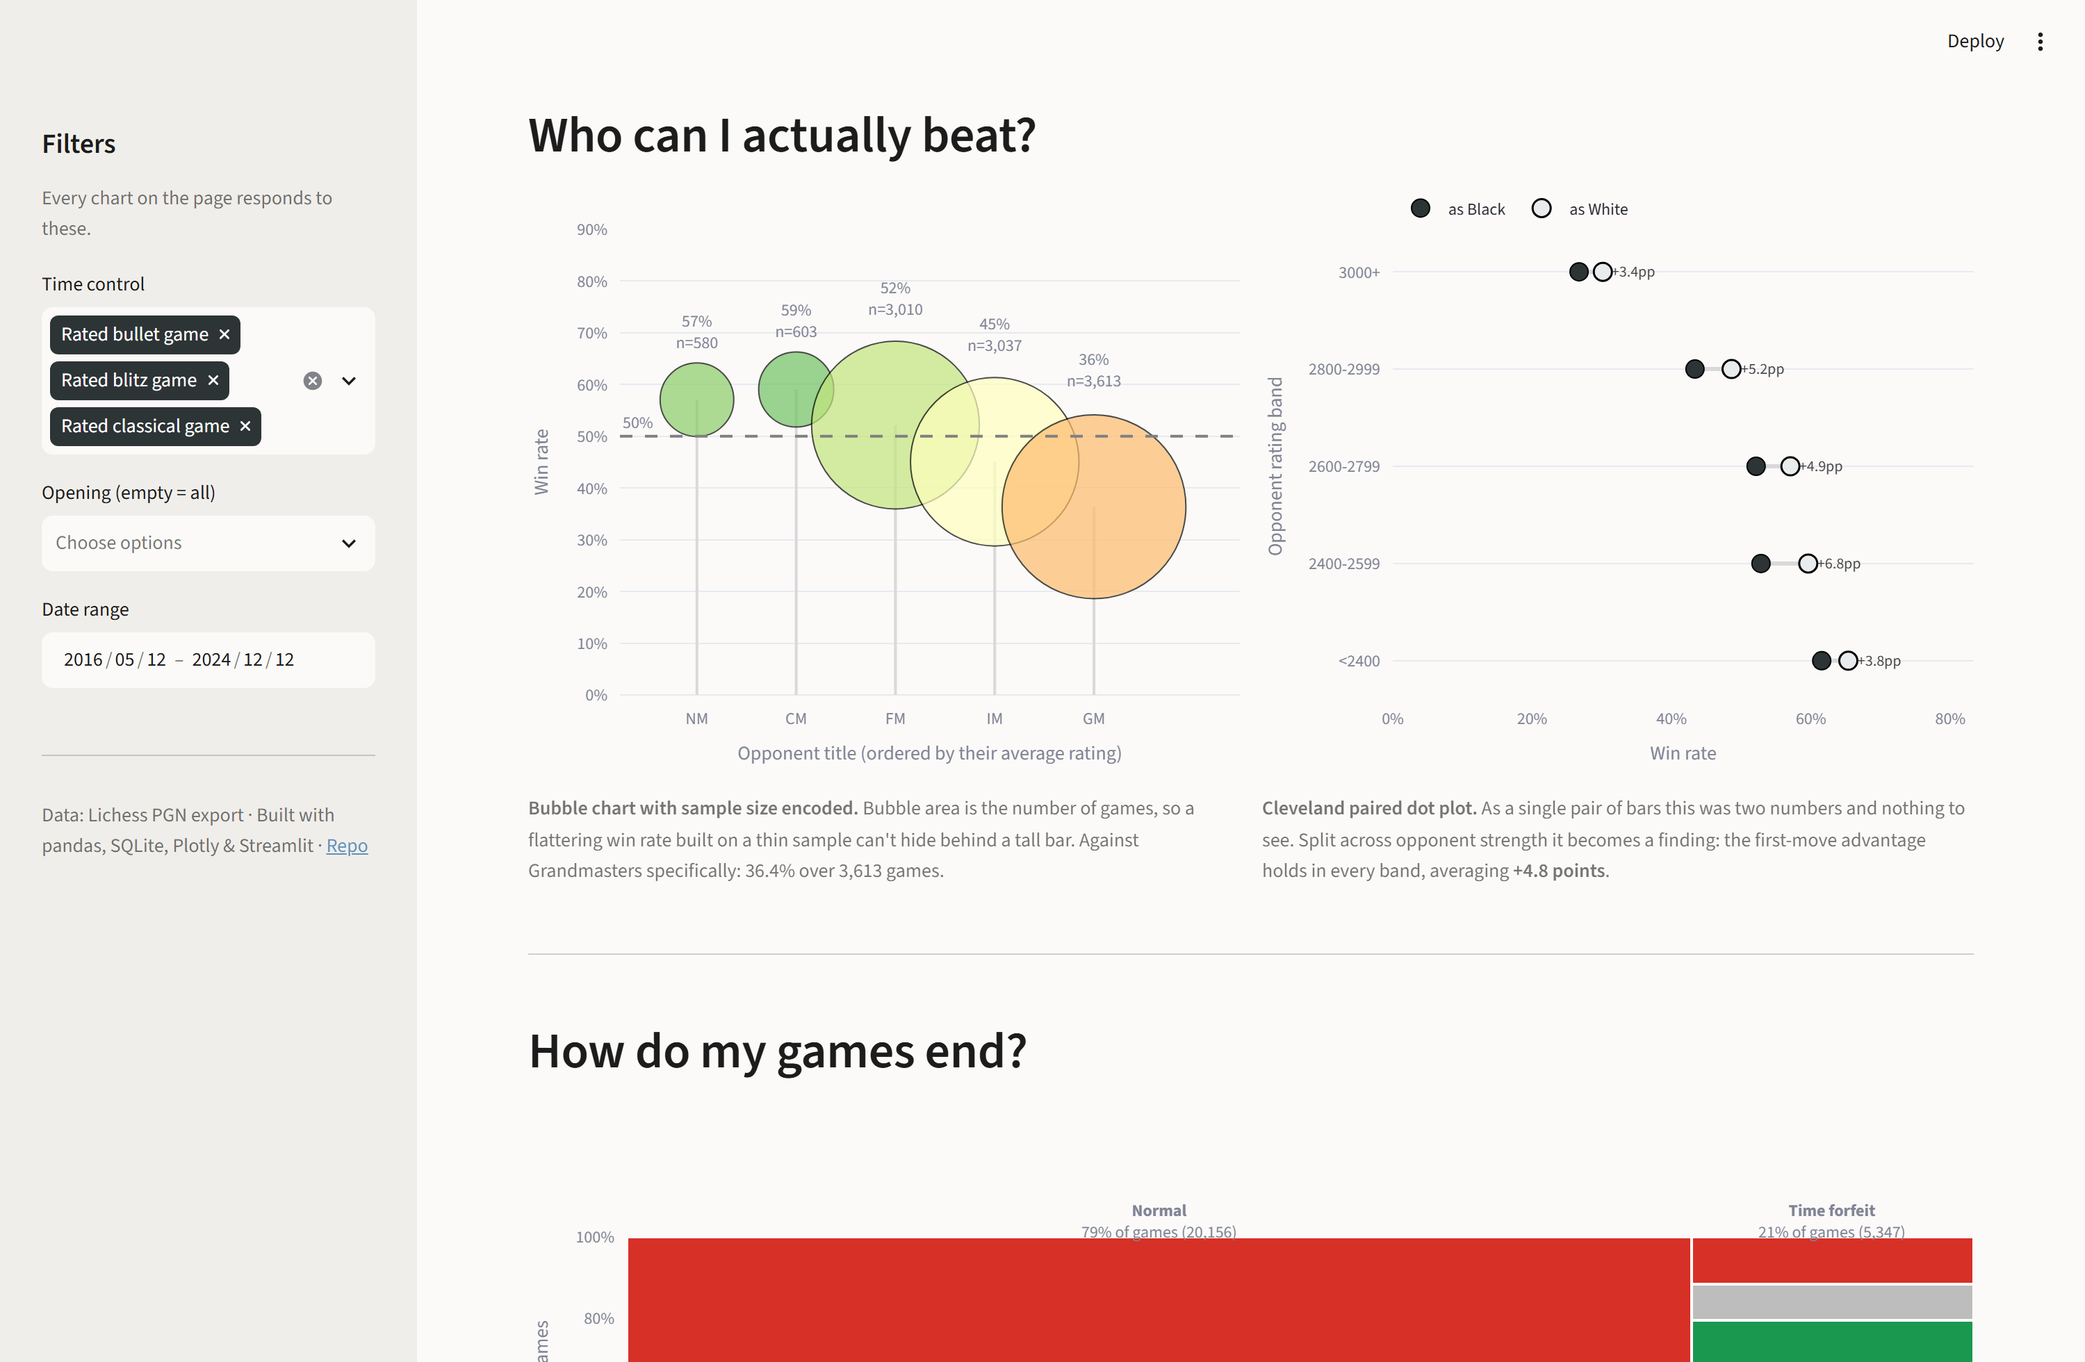
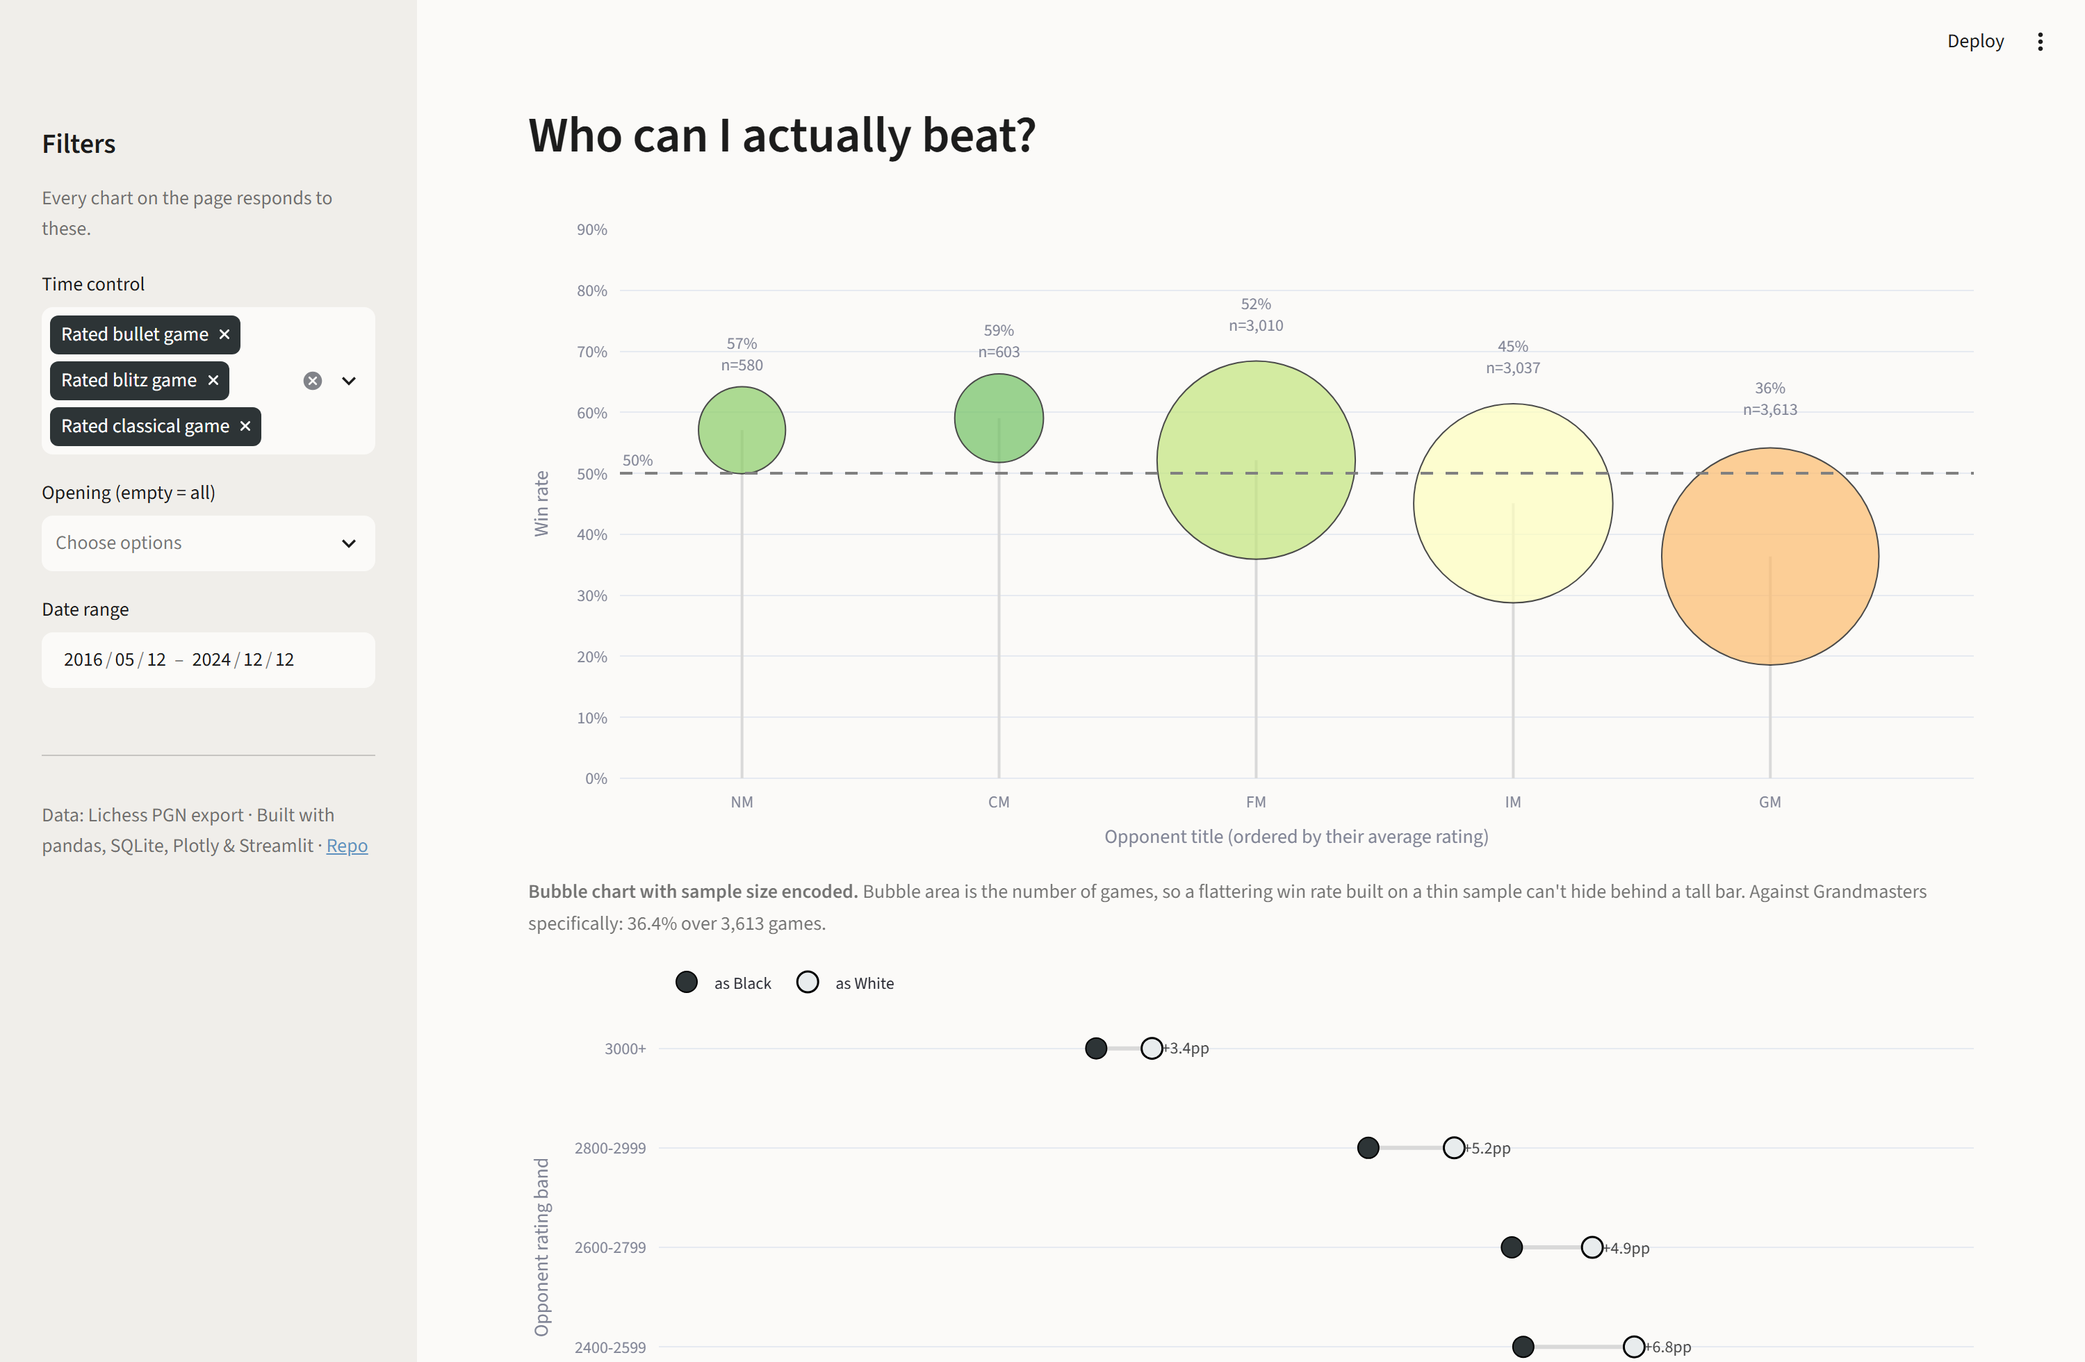
Stack charts full width and make the mosaic readable without hovering
Side-by-side chart pairs were cramped at this data density, so every chart
now gets the full page width and more height.

The mosaic plot's composition was only legible on hover: percentages now sit
inside each block, a gutter separates the two columns, and the column labels
have enough clearance not to collide with the bars.

diff --git a/dashboard/app.py b/dashboard/app.py
@@ -222,104 +222,99 @@ st.divider()
 # ------------------------------------------------------------- who I beat ---
 st.header("Who can I actually beat?")
 
-left, right = st.columns(2)
-
-with left:
-    title_df = q.winrate_by_opponent_title(conn, modes, selected_openings, date_from, date_to)
-    if title_df.empty:
-        st.info("No titled opponents in the current filter.")
-    else:
-        fig = go.Figure()
-        for _, row in title_df.iterrows():
-            fig.add_trace(
-                go.Scatter(x=[row["opp_title"]] * 2, y=[0, row["win_rate"]], mode="lines",
-                           line=dict(color="#d9d9d9", width=2), showlegend=False, hoverinfo="skip")
-            )
+title_df = q.winrate_by_opponent_title(conn, modes, selected_openings, date_from, date_to)
+if title_df.empty:
+    st.info("No titled opponents in the current filter.")
+else:
+    fig = go.Figure()
+    for _, row in title_df.iterrows():
         fig.add_trace(
-            go.Scatter(
-                x=title_df["opp_title"], y=title_df["win_rate"], mode="markers+text",
-                marker=dict(
-                    size=np.sqrt(title_df["games_played"]) * 2.2,
-                    color=title_df["win_rate"], colorscale="RdYlGn", cmin=0.2, cmax=0.7,
-                    line=dict(color="black", width=1), showscale=False,
-                ),
-                text=[f"{r:.0%}<br>n={n:,}" for r, n in
-                      zip(title_df["win_rate"], title_df["games_played"])],
-                textposition="top center", showlegend=False,
-                hovertemplate="%{x}<br>Win rate %{y:.1%}<extra></extra>",
-            )
+            go.Scatter(x=[row["opp_title"]] * 2, y=[0, row["win_rate"]], mode="lines",
+                       line=dict(color="#d9d9d9", width=2), showlegend=False, hoverinfo="skip")
         )
-        fig.add_hline(y=0.5, line_dash="dash", line_color="gray",
-                      annotation_text="50%", annotation_position="top left")
-        fig.update_yaxes(tickformat=".0%", range=[0, 0.9], title="Win rate")
-        fig.update_xaxes(title="Opponent title (ordered by their average rating)")
-        fig.update_layout(height=420, margin=dict(t=30, b=10))
+    fig.add_trace(
+        go.Scatter(
+            x=title_df["opp_title"], y=title_df["win_rate"], mode="markers+text",
+            marker=dict(
+                size=np.sqrt(title_df["games_played"]) * 2.6,
+                color=title_df["win_rate"], colorscale="RdYlGn", cmin=0.2, cmax=0.7,
+                line=dict(color="black", width=1), showscale=False,
+            ),
+            text=[f"{r:.0%}<br>n={n:,}" for r, n in
+                  zip(title_df["win_rate"], title_df["games_played"])],
+            textposition="top center", showlegend=False,
+            hovertemplate="%{x}<br>Win rate %{y:.1%}<extra></extra>",
+        )
+    )
+    fig.add_hline(y=0.5, line_dash="dash", line_color="gray",
+                  annotation_text="50%", annotation_position="top left")
+    fig.update_yaxes(tickformat=".0%", range=[0, 0.9], title="Win rate")
+    fig.update_xaxes(title="Opponent title (ordered by their average rating)")
+    fig.update_layout(height=480, margin=dict(t=30, b=10))
+    st.plotly_chart(fig, use_container_width=True)
+
+    gm = title_df[title_df["opp_title"] == "GM"]
+    gm_bit = (
+        f" Against Grandmasters specifically: {pct(gm.iloc[0]['win_rate'])} "
+        f"over {int(gm.iloc[0]['games_played']):,} games."
+        if not gm.empty else ""
+    )
+    st.caption(
+        "**Bubble chart with sample size encoded.** Bubble area is the number of games, so a "
+        "flattering win rate built on a thin sample can't hide behind a tall bar." + gm_bit
+    )
+
+ce_df = q.winrate_by_color_and_elo(conn, modes, selected_openings, date_from, date_to)
+if ce_df.empty:
+    st.info("Not enough data for the colour comparison in the current filter.")
+else:
+    wide = ce_df.pivot_table(
+        index=["elo_band", "sort_key"], columns="PlayerColor", values="win_rate"
+    ).reset_index().sort_values("sort_key")
+
+    if {"White", "Black"}.issubset(wide.columns):
+        band_order = wide["elo_band"].tolist()
+        line_x, line_y = [], []
+        for _, r in wide.iterrows():
+            line_x += [r["Black"], r["White"], None]
+            line_y += [r["elo_band"], r["elo_band"], None]
+
+        fig = go.Figure()
+        fig.add_trace(go.Scatter(x=line_x, y=line_y, mode="lines",
+                                 line=dict(color="#d9d9d9", width=3), hoverinfo="skip",
+                                 showlegend=False))
+        fig.add_trace(go.Scatter(
+            x=wide["Black"], y=wide["elo_band"], mode="markers", name="as Black",
+            marker=dict(color=BLACK_PIECE, size=15, line=dict(color="black", width=1)),
+            hovertemplate="as Black · %{y}<br>Win rate %{x:.1%}<extra></extra>",
+        ))
+        fig.add_trace(go.Scatter(
+            x=wide["White"], y=wide["elo_band"], mode="markers", name="as White",
+            marker=dict(color=WHITE_PIECE, size=15, line=dict(color="black", width=1.5)),
+            hovertemplate="as White · %{y}<br>Win rate %{x:.1%}<extra></extra>",
+        ))
+        for _, r in wide.iterrows():
+            gap = (r["White"] - r["Black"]) * 100
+            fig.add_annotation(
+                x=max(r["White"], r["Black"]), y=r["elo_band"], text=f"  +{gap:.1f}pp",
+                showarrow=False, xanchor="left", font=dict(size=12, color="#444"),
+            )
+        fig.update_yaxes(categoryorder="array", categoryarray=band_order,
+                         title="Opponent rating band")
+        fig.update_xaxes(tickformat=".0%", title="Win rate",
+                         range=[0, max(wide[["White", "Black"]].max()) + 0.15])
+        fig.update_layout(height=430, margin=dict(t=30, b=10),
+                          legend=dict(orientation="h", yanchor="bottom", y=1.02))
         st.plotly_chart(fig, use_container_width=True)
 
-        gm = title_df[title_df["opp_title"] == "GM"]
-        gm_bit = (
-            f" Against Grandmasters specifically: {pct(gm.iloc[0]['win_rate'])} "
-            f"over {int(gm.iloc[0]['games_played']):,} games."
-            if not gm.empty else ""
-        )
+        avg_gap = (wide["White"] - wide["Black"]).mean() * 100
         st.caption(
-            "**Bubble chart with sample size encoded.** Bubble area is the number of games, so a "
-            "flattering win rate built on a thin sample can't hide behind a tall bar." + gm_bit
+            f"**Cleveland paired dot plot.** As a single pair of bars this was two numbers and "
+            f"nothing to see. Split across opponent strength it becomes a finding: the "
+            f"first-move advantage holds in every band, averaging **+{avg_gap:.1f} points**."
         )
-
-with right:
-    ce_df = q.winrate_by_color_and_elo(conn, modes, selected_openings, date_from, date_to)
-    if ce_df.empty:
-        st.info("Not enough data for the colour comparison in the current filter.")
     else:
-        wide = ce_df.pivot_table(
-            index=["elo_band", "sort_key"], columns="PlayerColor", values="win_rate"
-        ).reset_index().sort_values("sort_key")
-        counts = ce_df.groupby("elo_band")["games_played"].sum()
-
-        if {"White", "Black"}.issubset(wide.columns):
-            band_order = wide["elo_band"].tolist()
-            line_x, line_y = [], []
-            for _, r in wide.iterrows():
-                line_x += [r["Black"], r["White"], None]
-                line_y += [r["elo_band"], r["elo_band"], None]
-
-            fig = go.Figure()
-            fig.add_trace(go.Scatter(x=line_x, y=line_y, mode="lines",
-                                     line=dict(color="#d9d9d9", width=3), hoverinfo="skip",
-                                     showlegend=False))
-            fig.add_trace(go.Scatter(
-                x=wide["Black"], y=wide["elo_band"], mode="markers", name="as Black",
-                marker=dict(color=BLACK_PIECE, size=13, line=dict(color="black", width=1)),
-                hovertemplate="as Black · %{y}<br>Win rate %{x:.1%}<extra></extra>",
-            ))
-            fig.add_trace(go.Scatter(
-                x=wide["White"], y=wide["elo_band"], mode="markers", name="as White",
-                marker=dict(color=WHITE_PIECE, size=13, line=dict(color="black", width=1.5)),
-                hovertemplate="as White · %{y}<br>Win rate %{x:.1%}<extra></extra>",
-            ))
-            for _, r in wide.iterrows():
-                gap = (r["White"] - r["Black"]) * 100
-                fig.add_annotation(
-                    x=max(r["White"], r["Black"]), y=r["elo_band"], text=f"  +{gap:.1f}pp",
-                    showarrow=False, xanchor="left", font=dict(size=11, color="#444"),
-                )
-            fig.update_yaxes(categoryorder="array", categoryarray=band_order,
-                             title="Opponent rating band")
-            fig.update_xaxes(tickformat=".0%", title="Win rate",
-                             range=[0, max(wide[["White", "Black"]].max()) + 0.18])
-            fig.update_layout(height=420, margin=dict(t=30, b=10),
-                              legend=dict(orientation="h", yanchor="bottom", y=1.02))
-            st.plotly_chart(fig, use_container_width=True)
-
-            avg_gap = (wide["White"] - wide["Black"]).mean() * 100
-            st.caption(
-                f"**Cleveland paired dot plot.** As a single pair of bars this was two numbers and "
-                f"nothing to see. Split across opponent strength it becomes a finding: the "
-                f"first-move advantage holds in every band, averaging **+{avg_gap:.1f} points**."
-            )
-        else:
-            st.info("Both colours are needed for this comparison.")
+        st.info("Both colours are needed for this comparison.")
 
 st.divider()
 
@@ -335,14 +330,25 @@ if not term_df.empty:
     for part in ("wins", "draws", "losses"):
         term_df[f"{part}_share"] = term_df[part] / term_df["games_played"]
 
+    # a small gutter between columns so the mosaic reads as separate blocks
+    gutter = 0.012
+    term_df["draw_width"] = (term_df["width"] - gutter).clip(lower=0.01)
+
     fig = go.Figure()
-    for part, color, label in (
-        ("wins", WIN, "Win"), ("draws", DRAW, "Draw"), ("losses", LOSS, "Loss")
+    for part, color, label, text_color in (
+        ("wins", WIN, "Win", "white"),
+        ("draws", DRAW, "Draw", "#333"),
+        ("losses", LOSS, "Loss", "white"),
     ):
+        share = term_df[f"{part}_share"]
+        # only label a block that is tall enough to hold the text
+        labels = [f"{s:.0%}" if s >= 0.08 else "" for s in share]
         fig.add_trace(
             go.Bar(
-                x=term_df["center"], y=term_df[f"{part}_share"], width=term_df["width"],
-                name=label, marker_color=color, marker_line=dict(color="white", width=2),
+                x=term_df["center"], y=share, width=term_df["draw_width"],
+                name=label, marker_color=color,
+                text=labels, textposition="inside", insidetextanchor="middle",
+                textfont=dict(color=text_color, size=15),
                 customdata=np.stack([term_df["termination"], term_df[part]], axis=-1),
                 hovertemplate="%{customdata[0]} · " + label
                               + "<br>%{y:.1%} (%{customdata[1]:,} games)<extra></extra>",
@@ -351,12 +357,12 @@ if not term_df.empty:
     for _, r in term_df.iterrows():
         # yref="paper" keeps the label above the plot instead of clipping it at y=1
         fig.add_annotation(
-            x=r["center"], y=1.10, yref="paper", showarrow=False,
+            x=r["center"], y=1.16, yref="paper", showarrow=False,
             text=f"<b>{r['termination']}</b><br>{r['width']:.0%} of games ({int(r['games_played']):,})",
             font=dict(size=12),
         )
     fig.update_layout(
-        barmode="stack", height=440, margin=dict(t=95, b=10), bargap=0,
+        barmode="stack", height=460, margin=dict(t=115, b=10), bargap=0,
         legend=dict(orientation="h", yanchor="bottom", y=-0.18),
     )
     fig.update_xaxes(visible=False, range=[0, 1])
@@ -385,52 +391,48 @@ st.divider()
 # ------------------------------------------------------- what and when ---
 st.header("What and when do I play?")
 
-left2, right2 = st.columns([3, 2])
+opening_df = q.winrate_by_opening(conn, modes, selected_openings, date_from, date_to, top_n=25)
+if opening_df.empty:
+    st.info("No openings pass the 10-game threshold in the current filter.")
+else:
+    fig = px.treemap(
+        opening_df, path=["Opening"], values="games_played", color="win_rate",
+        # 0.3-0.7 keeps 50% exactly on the grey midpoint while giving the
+        # near-breakeven majority of openings visible colour separation
+        color_continuous_scale=[[0, LOSS], [0.5, "#d9d9d9"], [1, WIN]], range_color=[0.3, 0.7],
+        hover_data=["games_played", "win_rate"],
+    )
+    fig.update_traces(textinfo="label+percent entry")
+    fig.update_layout(height=520, margin=dict(t=10, b=10, l=0, r=0),
+                      coloraxis_colorbar=dict(title="Win rate", tickformat=".0%"))
+    st.plotly_chart(fig, use_container_width=True)
+    st.caption(
+        "**Treemap.** Tile size is how often an opening is played, colour is how well it does — "
+        "grey sits at exactly 50%, so the colour midpoint means 'break even' rather than "
+        "'middling'."
+    )
 
-with left2:
-    opening_df = q.winrate_by_opening(conn, modes, selected_openings, date_from, date_to, top_n=25)
-    if opening_df.empty:
-        st.info("No openings pass the 10-game threshold in the current filter.")
-    else:
-        fig = px.treemap(
-            opening_df, path=["Opening"], values="games_played", color="win_rate",
-            # 0.3-0.7 keeps 50% exactly on the grey midpoint while giving the
-            # near-breakeven majority of openings visible colour separation
-            color_continuous_scale=[[0, LOSS], [0.5, "#d9d9d9"], [1, WIN]], range_color=[0.3, 0.7],
-            hover_data=["games_played", "win_rate"],
-        )
-        fig.update_traces(textinfo="label+percent entry")
-        fig.update_layout(height=430, margin=dict(t=10, b=10, l=0, r=0),
-                          coloraxis_colorbar=dict(title="Win rate", tickformat=".0%"))
-        st.plotly_chart(fig, use_container_width=True)
-        st.caption(
-            "**Treemap.** Tile size is how often an opening is played, colour is how well it does — "
-            "grey sits at exactly 50%, so the colour midpoint means 'break even' rather than "
-            "'middling'."
-        )
-
-with right2:
-    hour_df = q.winrate_by_hour(conn, modes, selected_openings, date_from, date_to)
-    if hour_df.empty:
-        st.info("No games in the current filter.")
-    else:
-        hour_df = pd.merge(pd.DataFrame({"Hour": range(24)}), hour_df, on="Hour", how="left").fillna(0)
-        hour_df["HourLabel"] = hour_df["Hour"].apply(lambda h: f"{int(h):02d}:00")
-        fig = px.bar_polar(
-            hour_df, r="win_rate", theta="HourLabel", color="win_rate",
-            color_continuous_scale="Purples", hover_data=["games_played"],
-            labels={"win_rate": "Win rate", "HourLabel": "Hour (UTC)"},
-        )
-        fig.update_layout(
-            height=430, margin=dict(t=10, b=10),
-            polar=dict(radialaxis=dict(tickformat=".0%")),
-            coloraxis_colorbar=dict(title="Win rate", tickformat=".0%"),
-        )
-        st.plotly_chart(fig, use_container_width=True)
-        st.caption(
-            "**Polar rose.** Hours wrap around a circle, so a circular axis fits the data better "
-            "than a bar chart that cuts midnight in half. Thin wedges are thin samples."
-        )
+hour_df = q.winrate_by_hour(conn, modes, selected_openings, date_from, date_to)
+if hour_df.empty:
+    st.info("No games in the current filter.")
+else:
+    hour_df = pd.merge(pd.DataFrame({"Hour": range(24)}), hour_df, on="Hour", how="left").fillna(0)
+    hour_df["HourLabel"] = hour_df["Hour"].apply(lambda h: f"{int(h):02d}:00")
+    fig = px.bar_polar(
+        hour_df, r="win_rate", theta="HourLabel", color="win_rate",
+        color_continuous_scale="Purples", hover_data=["games_played"],
+        labels={"win_rate": "Win rate", "HourLabel": "Hour (UTC)"},
+    )
+    fig.update_layout(
+        height=560, margin=dict(t=20, b=20),
+        polar=dict(radialaxis=dict(tickformat=".0%")),
+        coloraxis_colorbar=dict(title="Win rate", tickformat=".0%"),
+    )
+    st.plotly_chart(fig, use_container_width=True)
+    st.caption(
+        "**Polar rose.** Hours wrap around a circle, so a circular axis fits the data better "
+        "than a bar chart that cuts midnight in half. Thin wedges are thin samples."
+    )
 
 st.divider()
 
